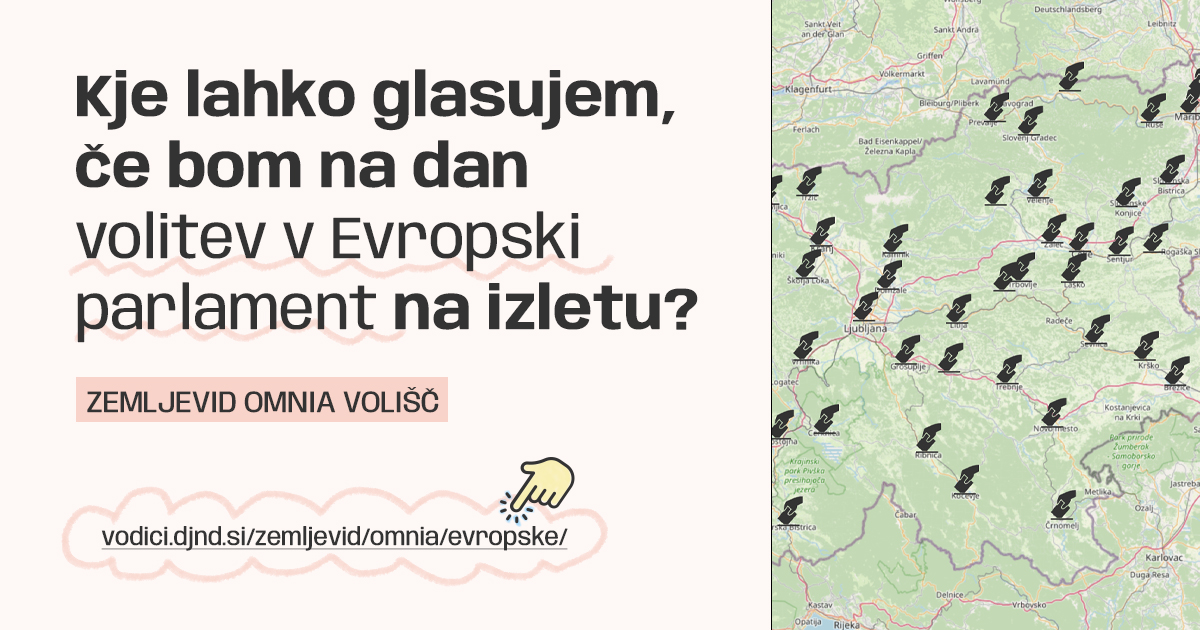
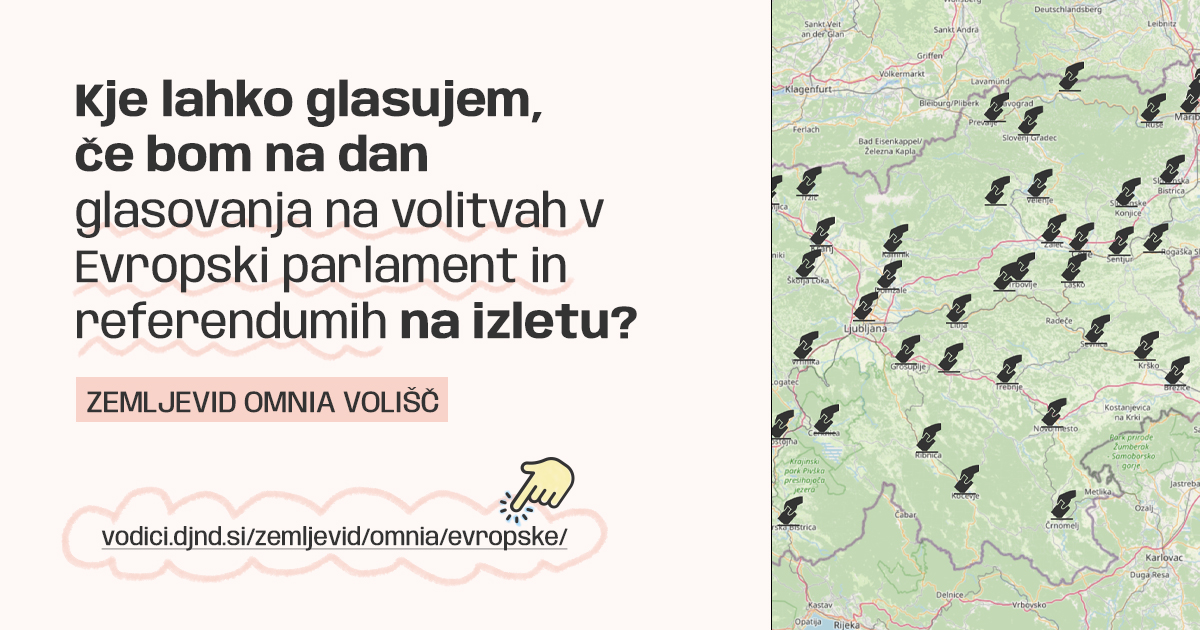
changes

Changed region(s): [[0.0617, 0.0905, 0.5858, 0.573]]

diff --git a/index.html b/index.html
@@ -47,14 +47,12 @@
         <!-- <h1>Če te v nedeljo ne bo doma, lahko glasuješ na OMNIA volišču. Imaš <span class=thetime></span>, da sporočiš svojo namero.</h1> -->
         <!-- <p>Nedeljski izlet ni izgovor za neudeležbo na volitvah! Če boš 9. junija zdoma, a v Sloveniji, imaš <span class=thetime></span>, da volilni komisiji (državni ali okrajni) <a href="https://vodici.djnd.si/volitve/#/korak/1/4/8" target="_blank">dostaviš namero o glasovanju na t. i. volišču OMNIA</a>.</p> -->
         <h1>
-          Če želiš na dan volitev v Evropski parlament glas oddati izven okraja stalnega prebivališča ali pa boš takrat v Sloveniji in imaš stalno prebivališče v tujini, lahko glasuješ na posebnem volišču na sedežu okrajne volilne komisije oz. na t. i. volišču OMNIA.
+          Če želiš na dan volitev v Evropski parlament in referendumov glas oddati izven okraja stalnega prebivališča ali pa boš takrat v Sloveniji in imaš stalno prebivališče v tujini, lahko glasuješ na posebnem volišču na sedežu okrajne volilne komisije oz. na t. i. volišču OMNIA.
         </h1>
-        <h1>
+        <!-- <h1>
           Imaš <span class=thetime></span>, da sporočiš svojo namero.
-        </h1>
-        <p>
-          Postopek za to je čisto preprost – prek portala e-Uprava oddaš vlogo (omogočena je oddaja vloge <a href="https://e-uprava.gov.si/si/podrocja/vloge/vloga.html?id=7505" target="_blank" rel="noopener noreferrer">z digitalnim potrdilom</a> ali <a href="https://e-uprava.gov.si/si/podrocja/vloge/vloga.html?id=7506" target="_blank" rel="noopener noreferrer">brez</a>) in v spustnem meniju označiš volišče OMNIA, na katerem boš glasoval/-a.
-        </p>
+        </h1> -->
+        <p>Postopek za to je čisto preprost – prek portala e-Uprava oddaš vlogo (omogočena je oddaja vloge <a href="https://e-uprava.gov.si/si/podrocja/vloge/vloga.html?id=7505" target="_blank" rel="noopener noreferrer">z digitalnim potrdilom</a> ali <a href="https://e-uprava.gov.si/si/podrocja/vloge/vloga.html?id=7506" target="_blank" rel="noopener noreferrer">brez</a>) in v spustnem meniju označiš volišče OMNIA, na katerem boš glasoval_a.</p>
         <div class=button>Poišči sebi najbližje OMNIA volišče! </div>
         <div class=social>
           <h2>Povej naprej!</h2>
